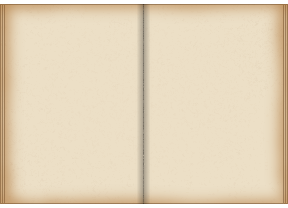
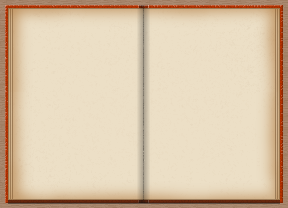
Improve spellbook

Changed region(s): [[0.0, 0.0, 1.0, 1.0]]

diff --git a/src/scenes/spells/SpellsGui.ts b/src/scenes/spells/SpellsGui.ts
@@ -19,8 +19,6 @@ interface SpellListItem {
 
 export default class SpellsGui extends Phaser.Scene {
 
-  private background!: Phaser.GameObjects.Sprite;
-
   private spellListItems: SpellListItem[] = [];
 
   private spellPage!: SpellPage
@@ -31,6 +29,8 @@ export default class SpellsGui extends Phaser.Scene {
 
   preload() {
     this.load.image("background", "assets/journal.png");
+    this.load.image("closeLeft", "assets/journal_close_left.png");
+    this.load.image("closeRight", "assets/journal_close_right.png");
 
     this.load.bitmapFont('blackRobotoMicro', 'assets/fonts/roboto-micro.png', 'assets/fonts/roboto-micro.xml');
 
@@ -57,9 +57,25 @@ export default class SpellsGui extends Phaser.Scene {
   }
 
   create() {
-    this.background = this.physics.add
+    this.physics.add
     .sprite(screen.center.x, screen.center.y, "background")
     .setDisplaySize(screen.size.width, screen.size.height);
+
+    this.physics.add
+    .sprite(4*4, screen.center.y, "closeLeft")
+    .setDisplaySize(12 * 4, screen.size.height)
+    .setInteractive()
+    .on("pointerup", () => {
+      this.scene.switch("errands")
+    });
+
+    this.physics.add
+    .sprite(screen.size.width - 5*4, screen.center.y, "closeRight")
+    .setDisplaySize(14 * 4, screen.size.height)
+    .setInteractive()
+    .on("pointerup", () => {
+      this.scene.switch("errands")
+    });
 
     this.spellPage.researchButton.create(this);
 
